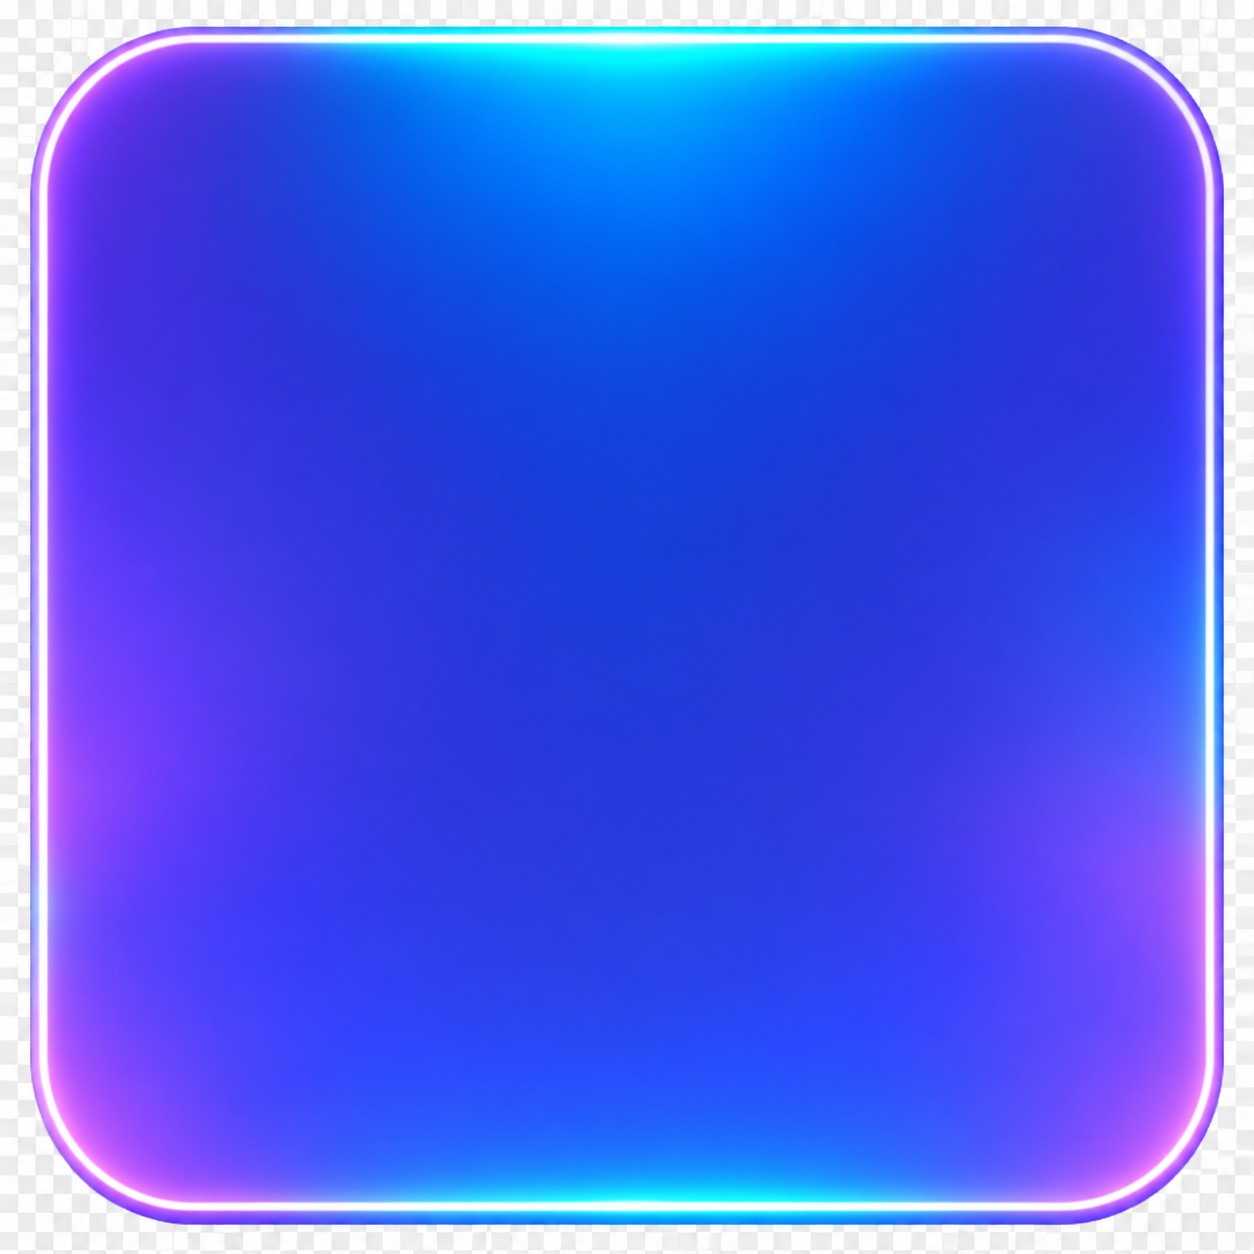
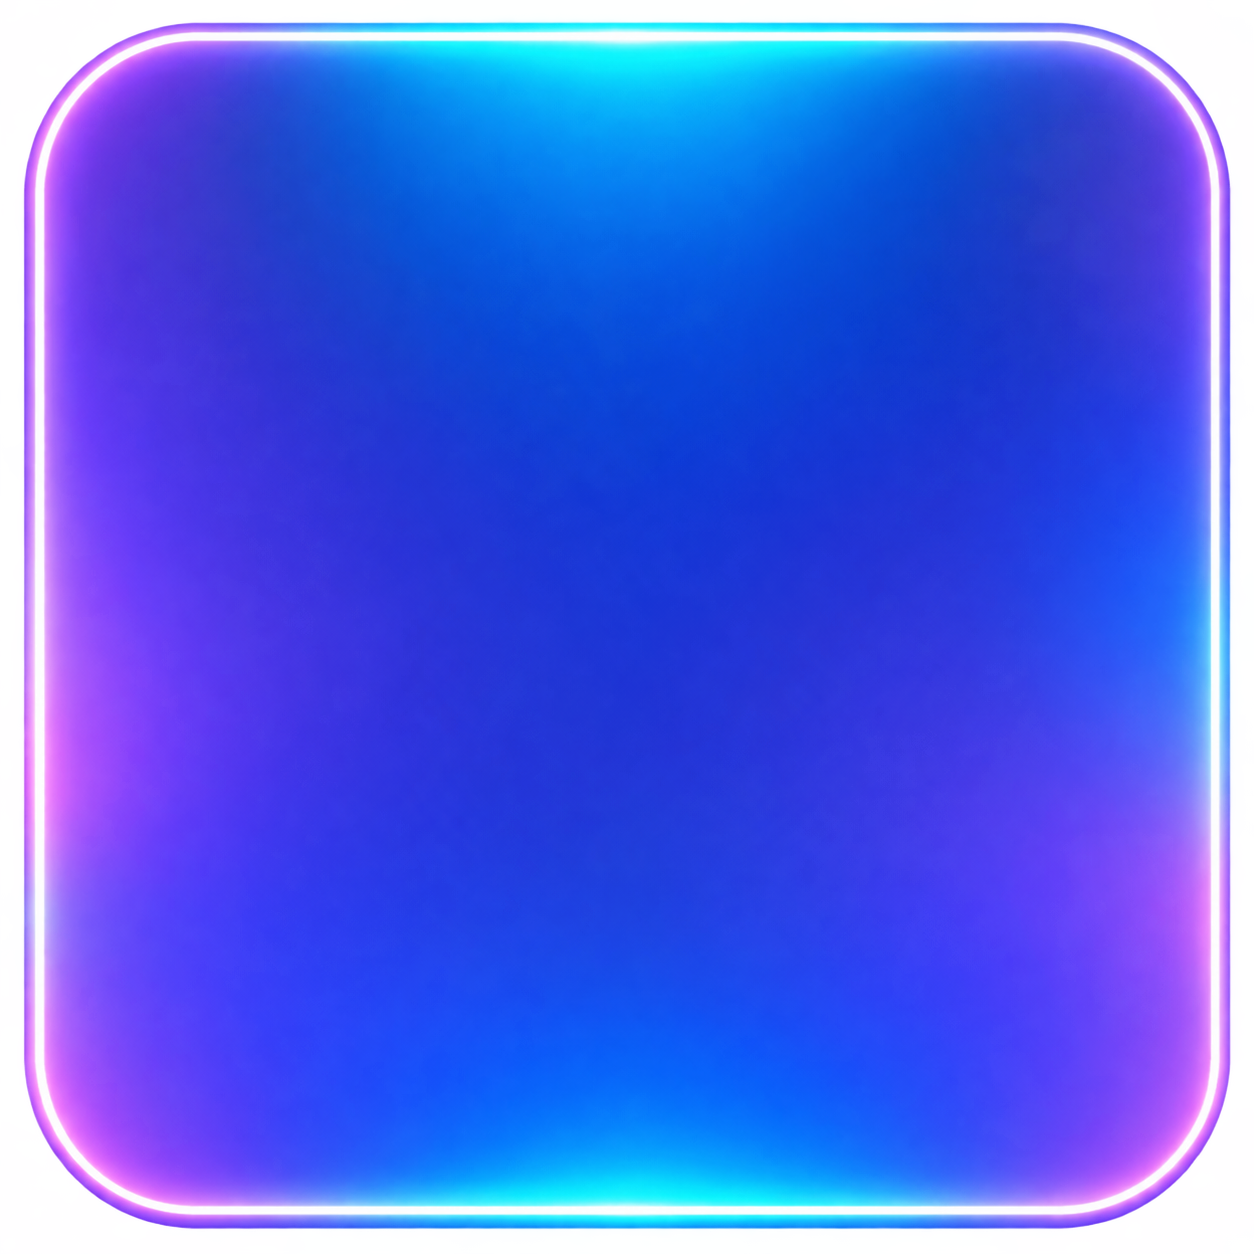
buzzers update2

Changed region(s): [[0.0, 0.0, 0.9952, 0.9952], [0.7464, 0.1244, 0.7775, 0.1555]]

diff --git a/games/buzzer/public/index.html b/games/buzzer/public/index.html
@@ -659,6 +659,23 @@ button#mute, button#leave {
   box-shadow: 0 4px 0 #0e7a35, 0 0 16px rgba(60, 230, 110, .6), inset 0 2px 0 rgba(255, 255, 255, .5);
 }
 .qopt.dim { opacity: .4; }
+.qopt.pick { cursor: pointer; transition: transform .1s; }
+.qopt.pick:hover { transform: translateY(-2px); }
+.qopt.pick:active { transform: translateY(3px); box-shadow: 0 1px 0 #17409f; }
+.qopt.sent { pointer-events: none; opacity: .75; }
+.qopt.wrong {
+  background: linear-gradient(180deg, #ff7a8a, #e11d3a); opacity: 1;
+  box-shadow: 0 4px 0 #9d1428, 0 0 16px rgba(255, 70, 90, .6), inset 0 2px 0 rgba(255, 255, 255, .5);
+}
+/* پاپآپ «... اول زد» */
+#buzzPop { position: fixed; left: 50%; top: 22%; z-index: 250; transform: translateX(-50%); pointer-events: none;
+  display: flex; align-items: center; gap: 12px; padding: 10px 22px 10px 12px; border-radius: 99px; max-width: 92vw;
+  background: linear-gradient(180deg, #ffe86a, #f6b800); color: #3a2a00; font-weight: 900; font-size: clamp(1.05rem, 4.6vw, 1.5rem);
+  border: 3px solid #fff; box-shadow: 0 6px 0 #c68600, 0 0 30px 6px var(--c, #ffd84a), 0 14px 26px rgba(0, 10, 80, .4);
+  animation: bpPop .45s cubic-bezier(.3, 1.6, .5, 1) both; }
+#buzzPop img { width: 54px; height: 54px; object-fit: contain; flex: none; filter: drop-shadow(0 3px 3px rgba(0, 0, 0, .3)); }
+#buzzPop span { overflow: hidden; text-overflow: ellipsis; white-space: nowrap; }
+@keyframes bpPop { from { opacity: 0; transform: translateX(-50%) scale(.5); } }
 .res { text-align: center; margin-top: 14px; font-weight: 900; font-size: 1.05rem; text-shadow: 0 2px 0 rgba(0, 0, 40, .3); }
 .fact {
   margin-top: 12px; padding: 12px 14px; border-radius: 12px; line-height: 1.8; font-size: .95rem; color: #fff;
@@ -1004,15 +1021,17 @@ body[data-screen="join"]::before,body[data-screen="join"] .game-header{display:n
 
 /* ----- چیپهای امتیاز ----- */
 .board button.tile.chip { aspect-ratio: 1; background: none; border: 0; border-radius: 50%; box-shadow: none; font-size: 0; }
-.board button.tile.chip img { display: block; width: 100%; height: 100%; object-fit: contain; pointer-events: none; transition: transform .1s, filter .15s; filter: drop-shadow(0 5px 4px rgba(0, 10, 80, .4)); }
-.board button.tile.chip:not(:disabled):hover img { transform: translateY(-3px); }
+.board button.tile.chip img { display: block; width: 100%; height: 100%; object-fit: contain; pointer-events: none; transform: scale(var(--chip-s, 1.75)); transition: transform .1s, filter .15s; filter: drop-shadow(0 5px 4px rgba(0, 10, 80, .4)); }
+.board button.tile.chip:not(:disabled):hover img { transform: translateY(-3px) scale(var(--chip-s, 1.75)); }
 .board button.tile.chip:active:not(:disabled) { transform: none; box-shadow: none; }
-.board button.tile.chip:active:not(:disabled) img { transform: translateY(4px) scale(.96); }
+.board button.tile.chip:active:not(:disabled) img { transform: translateY(4px) scale(calc(var(--chip-s, 1.75) * .96)); }
 .board button.tile.chip:disabled { opacity: .6; filter: none; box-shadow: none !important; }
 .board button.tile.chip.used:disabled { opacity: .3; filter: grayscale(1); }
 .board button.tile.chip.act:disabled { opacity: 1; filter: none; box-shadow: none !important; }
 .board button.tile.chip.act:disabled img { filter: drop-shadow(0 0 8px #4dff7a) drop-shadow(0 0 18px rgba(77, 255, 122, .85)); }
-.tile.chip .tk { top: -2px; right: -2px; }
+.tile.chip .tk { top: -6px; right: -6px; z-index: 2; }
+.board:has(.chip) { gap: 4px 2px; }
+.inset:has(.chip) { padding: 10px 4px; }
 .animal-badge { padding: 2px; }
 .animal-badge img { width: 100%; height: 100%; object-fit: contain; }
 .patronus-orb img { width: 70%; height: 70%; object-fit: contain; filter: drop-shadow(0 0 16px var(--c)); }
@@ -1282,6 +1301,7 @@ button.st-opt:disabled { opacity: .6; }
   </div>
 </div>
 <div id="toast" class="hide"></div>
+<div id="buzzPop" class="hide"><img id="buzzPopImg" alt=""><span id="buzzPopTxt"></span></div>
 
 <!-- پرده جادویی انتخاب پاترونوس (روح حیوان) -->
 <div id="intro" class="hide">
@@ -1668,10 +1688,20 @@ function renderQ(box, isHost) {
   card.className = 'qcard'; card.textContent = st.q.text;
   const opts = document.createElement('div');
   opts.className = 'qopts';
+  const wrong = st.wrong || [];
+  const canPick = !isHost && me && st.phase === 'answering' && st.queue[0] === me.id && !st.reveal;
   st.q.options.forEach((t, i) => {
     const d = document.createElement('div');
-    d.className = 'qopt' + (i === ans ? ' right' : (st.reveal ? ' dim' : ''));
+    d.className = 'qopt' + (i === ans ? ' right' : wrong.includes(i) ? ' wrong' : (st.reveal ? ' dim' : ''));
     d.textContent = t;
+    if (canPick && !wrong.includes(i)) {
+      d.classList.add('pick');
+      d.onclick = () => {
+        if (d.classList.contains('sent')) return;
+        opts.querySelectorAll('.qopt').forEach((x) => x.classList.add('sent'));
+        sock.emit('player:answer', { index: i });
+      };
+    }
     opts.append(d);
   });
   parts.push(top, bar, card, opts);
@@ -1996,7 +2026,23 @@ $('inName').value = localStorage.getItem('bz_name') || '';
 $('joinBtn').addEventListener('click', () => localStorage.setItem('bz_name', $('inName').value));
 
 sock.on('hostinfo', (h) => { hostInfo = h; render(); });
-sock.on('state', (s) => { st = s; dlAt = (s.phase === 'answering' && s.dl != null) ? Date.now() + s.dl : 0; render(); renderSettings(); });
+let buzzPopT = 0;
+function showFirstBuzz(p, first) {
+  if (!p) return;
+  $('buzzPopImg').src = BZ[(p.bz || 0) % BZ.length].img;
+  $('buzzPop').style.setProperty('--c', BZ[(p.bz || 0) % BZ.length].color);
+  $('buzzPopTxt').textContent = `${p.name} ${first ? 'اول زد!' : 'بازر زد!'}`;
+  const el = $('buzzPop');
+  el.classList.remove('hide'); el.style.animation = 'none'; void el.offsetWidth; el.style.animation = '';
+  clearTimeout(buzzPopT);
+  buzzPopT = setTimeout(() => el.classList.add('hide'), 2000);
+}
+sock.on('state', (s) => {
+  const prev = st;
+  if (me && prev && prev.phase === 'open' && s.phase === 'answering' && !prev.queue.length && s.queue.length) {
+    showFirstBuzz(s.players.find((p) => p.id === s.queue[0]), !(s.tried && s.tried.length));
+  }
+  st = s; dlAt = (s.phase === 'answering' && s.dl != null) ? Date.now() + s.dl : 0; render(); renderSettings(); });
 </script>
 </body>
 </html>

diff --git a/games/buzzer/index.js b/games/buzzer/index.js
@@ -58,6 +58,7 @@ function freshGame(room) {
   room.queue = [];
   room.tried = [];
   room.q = null;             // { text, options } برای نمایش
+  room.wrongOpts = [];       // گزینههایی که بازیکنان اشتباه انتخاب کردهاند
   room.answer = -1;          // اندیس پاسخ درست بعد از بههمریختن گزینهها
   room.fact = '';
   room.reveal = null;        // { answer, fact, by }
@@ -96,6 +97,7 @@ function publicState(room) {
     q: room.q,
     reveal: room.reveal,
     over: room.over,
+    wrong: room.wrongOpts,
     answerMs: room.answerMs,
     dl: room.phase === 'answering' && room.deadline ? Math.max(0, room.deadline - Date.now()) : null,
     players: [...room.players.values()].map((p) => ({
@@ -147,7 +149,7 @@ function init({ nsp }) {
     }
   }
 
-  function judge(room, correct) {
+  function judge(room, correct, pick) {
     if (room.phase !== 'answering' || !room.queue.length) return;
     const id = room.queue[0];
     const p = room.players.get(id);
@@ -164,7 +166,7 @@ function init({ nsp }) {
       const delta = room.active;
       p.score += delta;
       p.ok += 1;
-      nsp.to(room.code).emit('judged', { id, correct: true, delta });
+      nsp.to(room.code).emit('judged', { id, correct: true, delta, pick: pick ?? null });
       finishQuestion(room, id);
       return broadcast(room);
     }
@@ -173,7 +175,8 @@ function init({ nsp }) {
     p.score += delta;
     room.tried.push(id);
     room.queue.shift();
-    nsp.to(room.code).emit('judged', { id, correct: false, delta });
+    if (Number.isInteger(pick) && !room.wrongOpts.includes(pick)) room.wrongOpts.push(pick);
+    nsp.to(room.code).emit('judged', { id, correct: false, delta, pick: pick ?? null });
 
     if (room.queue.length) {
       startAnswering(room);
@@ -351,6 +354,7 @@ function init({ nsp }) {
       room.answer = opts.findIndex((x) => x.correct);
       room.fact = item.f || '';
       room.reveal = null;
+      room.wrongOpts = [];
       room.active = value;
       room.queue = [];
       room.tried = [];
@@ -412,6 +416,18 @@ function init({ nsp }) {
       room.queue.push(id);
       if (room.phase === 'open') startAnswering(room);
       broadcast(room);
+    });
+
+    // بازیکنی که نوبتش است گزینهی خودش را انتخاب میکند؛ سرور درست یا غلط بودن را تعیین میکند
+    socket.on('player:answer', (data) => {
+      const c = ctx();
+      if (!c || c.role !== 'player') return;
+      const { room, id } = c;
+      if (room.phase !== 'answering' || room.queue[0] !== id || !room.q) return;
+      const i = Number(data?.index);
+      if (!Number.isInteger(i) || i < 0 || i >= room.q.options.length) return;
+      if (room.wrongOpts.includes(i)) return;
+      judge(room, i === room.answer, i);
     });
 
     socket.on('disconnect', () => {
